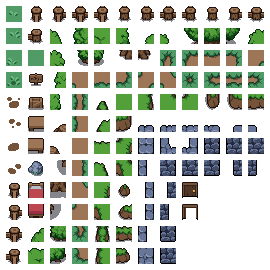
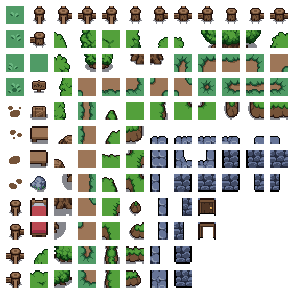
Add movement interpolation Add Camera follow system within map boundaries Fix texture bleeding for tile map (extrusions 1px on each tile)

diff --git a/core/src/main/kotlin/ru/aahzbrut/rpggame/system/PhysicsSystem.kt b/core/src/main/kotlin/ru/aahzbrut/rpggame/system/PhysicsSystem.kt
@@ -1,5 +1,6 @@
 package ru.aahzbrut.rpggame.system
 
+import com.badlogic.gdx.math.MathUtils
 import com.badlogic.gdx.physics.box2d.World
 import com.github.quillraven.fleks.Entity
 import com.github.quillraven.fleks.Fixed
@@ -13,7 +14,7 @@ class PhysicsSystem(
     private val physicsWorld: World = inject()
 ) : IteratingSystem(
     family = family { all(PhysicsComponent, ImageComponent) },
-    interval = Fixed(1 / 30f)
+    interval = Fixed(1 / 60f)
 ) {
 
     override fun onUpdate() {
@@ -28,18 +29,30 @@ class PhysicsSystem(
     }
 
     override fun onTickEntity(entity: Entity) {
-        val image = entity[ImageComponent].image
         val physicsComponent = entity[PhysicsComponent]
         val body = entity[PhysicsComponent].body
+
+        physicsComponent.prevPos.set(body.position)
 
         if (!physicsComponent.impulse.isZero) {
             body.applyLinearImpulse(physicsComponent.impulse, body.worldCenter, true)
             physicsComponent.impulse.setZero()
         }
+    }
 
-        body.position.let {
-            image.run {
-                setPosition(it.x - width * 0.5f, it.y - height * 0.5f)
+    override fun onAlphaEntity(entity: Entity, alpha: Float) {
+        val image = entity[ImageComponent].image
+        val physicsComponent = entity[PhysicsComponent]
+        val body = entity[PhysicsComponent].body
+
+        body.position.let { newPosition ->
+            physicsComponent.prevPos.let { prevPosition ->
+                image.run {
+                    setPosition(
+                        MathUtils.lerp(prevPosition.x, newPosition.x, alpha) - width * 0.5f,
+                        MathUtils.lerp(prevPosition.y, newPosition.y, alpha) - height * 0.5f
+                    )
+                }
             }
         }
     }

diff --git a/core/src/main/kotlin/ru/aahzbrut/rpggame/system/CameraFollowSystem.kt b/core/src/main/kotlin/ru/aahzbrut/rpggame/system/CameraFollowSystem.kt
@@ -1,0 +1,49 @@
+package ru.aahzbrut.rpggame.system
+
+import com.badlogic.gdx.scenes.scene2d.Event
+import com.badlogic.gdx.scenes.scene2d.EventListener
+import com.badlogic.gdx.scenes.scene2d.Stage
+import com.github.quillraven.fleks.Entity
+import com.github.quillraven.fleks.IteratingSystem
+import com.github.quillraven.fleks.World.Companion.family
+import com.github.quillraven.fleks.World.Companion.inject
+import ktx.tiled.height
+import ktx.tiled.width
+import ru.aahzbrut.rpggame.component.ImageComponent
+import ru.aahzbrut.rpggame.component.PlayerComponent
+import ru.aahzbrut.rpggame.event.MapChangedEvent
+
+class CameraFollowSystem(
+    stage: Stage = inject()
+) : EventListener, IteratingSystem(
+    family { all(PlayerComponent, ImageComponent) }
+) {
+    private val camera = stage.camera
+    private var mapWidth = 0f
+    private var mapHeight = 0f
+
+    @Suppress("kotlin:S6518")
+    override fun onTickEntity(entity: Entity) {
+        val viewWidth = camera.viewportWidth * 0.5f
+        val viewHeight = camera.viewportHeight * 0.5f
+
+        entity[ImageComponent].let { imageComponent ->
+            imageComponent.image.run {
+                camera.position.set(
+                    x.coerceIn(viewWidth, mapWidth - viewWidth),
+                    y.coerceIn(viewHeight, mapHeight - viewHeight),
+                    camera.position.z
+                )
+            }
+        }
+    }
+
+    override fun handle(event: Event): Boolean {
+        if (event is MapChangedEvent) {
+            mapWidth = event.map.width.toFloat()
+            mapHeight = event.map.height.toFloat()
+            return true
+        }
+        return false
+    }
+}

diff --git a/assets/graphics/map/map.tsx b/assets/graphics/map/map.tsx
@@ -1,4 +1,4 @@
 <?xml version="1.0" encoding="UTF-8"?>
-<tileset version="1.10" tiledversion="1.10.1" name="map" tilewidth="16" tileheight="16" spacing="6" margin="6" tilecount="144" columns="12">
- <image source="map.png" width="270" height="270"/>
+<tileset version="1.10" tiledversion="1.10.1" name="map" tilewidth="16" tileheight="16" spacing="8" margin="7" tilecount="144" columns="12">
+ <image source="map.png" width="294" height="294"/>
 </tileset>

diff --git a/core/src/main/kotlin/ru/aahzbrut/rpggame/screen/GameScreen.kt b/core/src/main/kotlin/ru/aahzbrut/rpggame/screen/GameScreen.kt
@@ -57,6 +57,7 @@ class GameScreen : KtxScreen {
             add(MovementSystem())
             add(PhysicsSystem())
             add(AnimationSystem())
+            add(CameraFollowSystem())
             add(RenderSystem())
             add(DebugSystem())
         }
